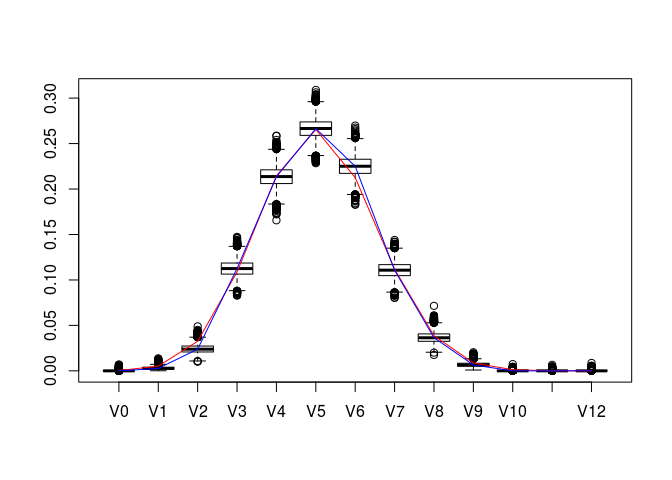
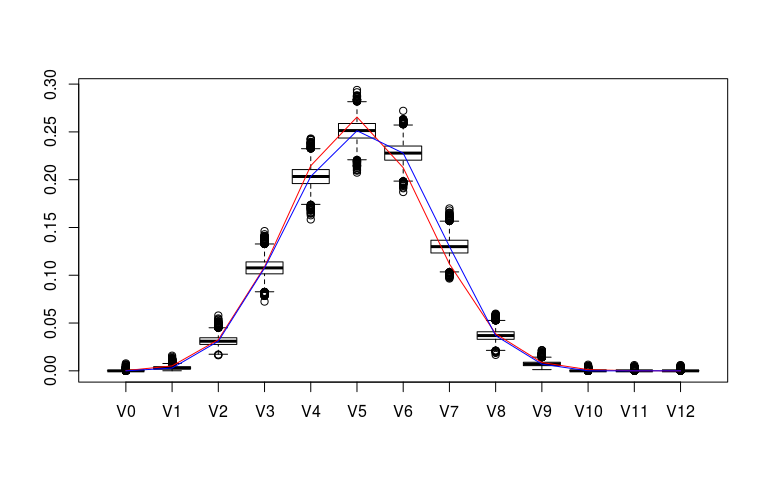
overhaul readme

diff --git a/README.md b/README.md
@@ -1,7 +1,8 @@
-conivol: An R package for the (bivariate) chi-bar-squared distribution and conic intrinsic volumes
-================
 
 <!-- README.md is generated from README.Rmd. Please edit that file -->
+conivol:<img src="logo.png" width="125" height="125" align="right"/> An R package for the (bivariate) chi-bar-squared distribution and conic intrinsic volumes
+==============================================================================================================================================================
+
 This R package provides functions for the chi-bar-squared distribution, the bivariate chi-bar-squared distribution, and the conic intrinsic volumes. It supports standard functions for the density/cdf/sampling of the (bivariate) chi-bar-squared distribution, calculations and known formulas for special classes of intrinsic volumes of cones, sampling functions for ellipsoidal cones and general polyhedral cones, as well as functions for estimating intrinsic volumes either from direct samples of the intrinsic volumes distribution (in the case of polyhedral cones) or from samples of the corresponding bivariate chi-bar-squared distribution. The package supports point estimates as well as Bayesian estimates via JAGS and Stan.
 
 Installation
@@ -66,20 +67,20 @@ pbichibarsq(xmat, v)
 
 # draw samples
 rchibarsq(10,v)
-#>  [1]  2.3918587  4.4510861  0.5022484  4.2238186  5.3131739  3.4599904
-#>  [7]  0.4576610  5.3195739  5.5375431 11.1122597
+#>  [1] 11.7136793  1.8455705  0.3968663  4.2529728 11.9379648  1.6168339
+#>  [7] 12.4645588  4.1396592 12.1570490  1.3374971
 rbichibarsq(10,v)
-#>             [,1]      [,2]
-#>  [1,] 0.00000000 9.3417217
-#>  [2,] 2.04589254 4.3345748
-#>  [3,] 1.54257645 2.4243350
-#>  [4,] 1.35398169 3.0641805
-#>  [5,] 2.08949334 3.1952437
-#>  [6,] 4.75112732 0.0000000
-#>  [7,] 3.42870404 0.5461283
-#>  [8,] 0.01269076 5.3659323
-#>  [9,] 0.00000000 3.4696579
-#> [10,] 7.70284494 0.3216500
+#>            [,1]         [,2]
+#>  [1,]  9.158176 0.6671769752
+#>  [2,]  4.653150 0.3943444343
+#>  [3,]  3.511411 0.2112598458
+#>  [4,]  0.325022 9.4584050842
+#>  [5,]  3.512931 0.5548743991
+#>  [6,]  5.933315 0.0000000000
+#>  [7,]  0.000000 1.2225380465
+#>  [8,]  1.065171 3.0144153644
+#>  [9,] 10.853338 2.4789997414
+#> [10,]  6.457394 0.0005752294
 ```
 
 ### Special classes of cones:
@@ -108,25 +109,25 @@ prod_ivols( list(circ_ivols(4,pi/4), circ_ivols(4,pi/4)) )
 # computing the semiaxes of the ellipsoidal cone given by the linear image of the Lorentz cone
 A <- matrix(sample(1:25),5,5)
 ellips_semiax(A)
-#> [1] 34.174818 17.712437  5.335419  2.650066
+#> [1] 8.39031851 3.13814421 1.96798247 0.05006629
 
 # draw samples of the bivariate chi-bar-squared distribution of the ellipsoidal cone
 ellips_rbichibarsq(10, A)
 #> $semiax
-#> [1] 34.174818 17.712437  5.335419  2.650066
+#> [1] 8.39031851 3.13814421 1.96798247 0.05006629
 #> 
 #> $samples
-#>             [,1]          [,2]
-#>  [1,]  1.8262861 -9.595045e-10
-#>  [2,]  0.3908564  4.723528e-01
-#>  [3,]  3.8903877  2.808700e-01
-#>  [4,]  6.8292999  3.646662e+00
-#>  [5,]  5.6744854 -2.045159e-08
-#>  [6,] 14.8446079 -2.023270e-11
-#>  [7,]  2.2339645 -1.643021e-08
-#>  [8,]  8.0010701  6.675965e-01
-#>  [9,]  4.2873706  4.162934e-01
-#> [10,]  5.1085968 -1.262772e-08
+#>               [,1]        [,2]
+#>  [1,] 0.2660257383 2.435511490
+#>  [2,] 1.4165146338 0.987217591
+#>  [3,] 0.0001986938 6.127696113
+#>  [4,] 2.8067142466 0.006943965
+#>  [5,] 0.9298638137 0.863948449
+#>  [6,] 0.5425539061 2.533520675
+#>  [7,] 5.0078025450 1.865901620
+#>  [8,] 2.8754255165 0.013595918
+#>  [9,] 2.3327089870 3.072222151
+#> [10,] 2.3602207583 0.659725270
 
 # compute the matrix of the product of some Weyl chambers
 weyl_matrix( rep(3,4), c("BC","BCp","D","Dp"), product=TRUE)
@@ -215,16 +216,16 @@ polyh_reduce_ineq(A)
 # (setting reduce to FALSE since otherwise polyh_reduce_*** would be called)
 polyh_rivols_gen(10, A, reduce=FALSE)
 #> $samples
-#>  [1] 0 0 1 0 1 0 0 2 1 0
+#>  [1] 0 1 0 1 1 1 1 1 1 0
 #> 
 #> $multsamp
-#> [1] 6 3 1 0 0 0
+#> [1] 3 7 0 0 0 0
 polyh_rivols_ineq(10, A, reduce=FALSE)
 #> $samples
-#>  [1] 4 4 3 5 5 5 4 5 5 5
+#>  [1] 4 3 5 4 5 5 4 4 3 5
 #> 
 #> $multsamp
-#> [1] 0 0 0 1 3 6
+#> [1] 0 0 0 2 4 4
 
 # computing the Bayesian posterior with Dirichlet prior (analytically solvable)
 # we sample from a product of Weyl chambers to have the true values at hand
@@ -239,11 +240,11 @@ bayes_est <- polyh_bayes( out$multsamp, out$dimC, out$linC )
 # compare posterior median with true values
 v_est_med <- bayes_est$post_marg_quant(0:12,0.5)
 v_est_med / v_true
-#>  [1] 0.015429495 0.523062457 0.733636995 1.035679305 0.994780829
-#>  [6] 1.003383516 1.058643362 0.989737734 0.941499288 0.751049575
-#> [11] 0.004248011 0.101089266 1.620096938
+#>  [1] 0.014347632 0.561701529 0.951341821 0.989484391 0.947710174
+#>  [6] 0.946117581 1.071471519 1.163783356 0.950920886 0.806530482
+#> [11] 0.003950155 0.108555516 1.506501407
 sum( (v_est_med-v_true)^2 )
-#> [1] 0.0002665534
+#> [1] 0.0009137502
 
 # display boxplot of posterior distribution, overlayed with true values
 data <- as.data.frame( bayes_est$post_samp(1e4) )
@@ -253,7 +254,7 @@ lines(1+0:12, v_true, col="red")
 lines(1+0:12, v_est_med, col="blue")
 ```
 
-![](README_figures/ex-polyh-1.png)
+<img src="README_figures/ex-polyh-1.png" style="display: block; margin: auto;" />
 
 ``` r
 # the Bayesian approach using a model that induces log-concavity works with
@@ -271,30 +272,28 @@ When the cone is nonpolyhedral or when sampling from the intrinsic volumes distr
 -   `estim_em`: produces EM-type iterates that may or may not converge to the maximum likelihood estimate for the weights of the bivariate chi-bar-squared distribution from sample data
 -   `estim_jags`, `estim_stan`: generate inputs for JAGS / Stan (data list and model string or external file) for sampling from the posterior distribution of the intrinsic volumes, given samples of the bivariate chi-bar-squared distribution
 
-**Usage:**
+**Usage:** We use a sample from the bivariate chi-bar-squared distribution of a product of circular cones, for which we have exact formulas for its intrinsic volumes:
 
 ``` r
-# sample from the bivariate chi-bar-squared distribution of a product of circular cones
 v_true <- circ_ivols( c(5,8), c(0.7*pi/2, 0.8*pi/2), product=TRUE)
 m_samp <- rbichibarsq(1e5, v_true)
 d <- 13
-
 # scatter plot of the sample
 ggplot(as_tibble(m_samp), aes(V1,V2)) + geom_point(alpha=.02) +
     theme_bw() +
     theme(axis.title.x=element_blank(),axis.title.y=element_blank())
 ```
 
-![](README_figures/ex-reconstr-1.png)
+<img src="README_figures/ex-reconstr-1.png" style="display: block; margin: auto;" />
 
 ``` r
 # estimate the moments of the intrinsic volumes, compare with true values
 est <- estim_statdim_var(d, m_samp); est
 #> $delta
-#> [1] 9.987078
+#> [1] 10.00048
 #> 
 #> $var
-#> [1] 2.633351
+#> [1] 2.485597
 list( statdim_true=sum((0:d)*v_true),
       var_true=sum((0:d)^2*v_true)-sum((0:d)*v_true)^2 )
 #> $statdim_true
@@ -314,14 +313,13 @@ v_init <- tibble( v_est_0 = init_ivols(13,0),
 # compute log-likelihoods of initial estimates
 lapply( v_init, loglike_ivols, data, 0)
 #> $v_est_0
-#> [1] -5.476975
+#> [1] -5.475552
 #> 
 #> $v_est_1
-#> [1] -4.971652
+#> [1] -4.966583
 #> 
 #> $v_est_4
-#> [1] -4.977581
-
+#> [1] -4.974373
 # plot the different estimates and their logarithms
 tib_plot <- v_init %>% add_column(v_true=v_true,.before=1) %>%
     add_column(k=0:d,.before=1) %>% gather(mode,value,2:5)
@@ -329,17 +327,18 @@ ggplot(tib_plot, aes(x=k, y=value, color=mode)) +
     geom_line() + theme_bw()
 ```
 
-![](README_figures/ex-reconstr-2.png)
+<img src="README_figures/ex-reconstr-2.png" style="display: block; margin: auto;" />
 
 ``` r
 ggplot(tib_plot, aes(x=k, y=log(value), color=mode)) +
     geom_line() + theme_bw()
 ```
 
-![](README_figures/ex-reconstr-3.png)
+<img src="README_figures/ex-reconstr-3.png" style="display: block; margin: auto;" />
+
+We compute some iterates of the EM algorithm for different initial estimates:
 
 ``` r
-# computing some iterates of the EM algorithm
 em0 <- estim_em( d, m_samp, N=200, init_mode=0, data=data)
 em1 <- estim_em( d, m_samp, N=200, init_mode=1, data=data)
 em4 <- estim_em( d, m_samp, N=200, init_mode=4, data=data)
@@ -352,39 +351,55 @@ ggplot(tib_plot0,aes(x=k,y=value,color=step)) +
     geom_line() + theme_bw() +
     geom_line(data=tib_true,aes(x=k,y=v_true),colour="black",linetype="dashed") +
     theme(legend.position="none", axis.title.x=element_blank(), axis.title.y=element_blank())
-```
-
-![](README_figures/ex-reconstr-4.png)
-
-``` r
 # [...]
 ```
 
-![](README_figures/plot-em-iterates-1.png)![](README_figures/plot-em-iterates-2.png)![](README_figures/plot-em-iterates-3.png)![](README_figures/plot-em-iterates-4.png)![](README_figures/plot-em-iterates-5.png)
+<!-- ```{r plot-em-iterates, echo=FALSE, fig.width=8, fig.height=5, fig.align="center"} -->
+<!-- ggplot(tib_plot0,aes(x=k,y=log(value),color=step)) + -->
+<!--     geom_line() + theme_bw() + -->
+<!--     geom_line(data=tib_true,aes(x=k,y=log(v_true)),colour="black",linetype="dashed") + -->
+<!--     theme(legend.position="none", axis.title.x=element_blank(), axis.title.y=element_blank()) -->
+<!-- tib_plot1 <- as_tibble( t(em0$iterates[1+20*(0:10), ]) ) %>% -->
+<!--     add_column(k=0:d,.before=1) %>% gather(step,value,2:12) -->
+<!-- ggplot(tib_plot1,aes(x=k,y=value,color=step)) + -->
+<!--     geom_line() + theme_bw() + -->
+<!--     geom_line(data=tib_true,aes(x=k,y=v_true),colour="black",linetype="dashed") + -->
+<!--     theme(legend.position="none", axis.title.x=element_blank(), axis.title.y=element_blank()) -->
+<!-- ggplot(tib_plot1,aes(x=k,y=log(value),color=step)) + -->
+<!--     geom_line() + theme_bw() + -->
+<!--     geom_line(data=tib_true,aes(x=k,y=log(v_true)),colour="black",linetype="dashed") + -->
+<!--     theme(legend.position="none", axis.title.x=element_blank(), axis.title.y=element_blank()) -->
+<!-- tib_plot4 <- as_tibble( t(em0$iterates[1+20*(0:10), ]) ) %>% -->
+<!--     add_column(k=0:d,.before=1) %>% gather(step,value,2:12) -->
+<!-- ggplot(tib_plot4,aes(x=k,y=value,color=step)) + -->
+<!--     geom_line() + theme_bw() + -->
+<!--     geom_line(data=tib_true,aes(x=k,y=v_true),colour="black",linetype="dashed") + -->
+<!--     theme(legend.position="none", axis.title.x=element_blank(), axis.title.y=element_blank()) -->
+<!-- ggplot(tib_plot4,aes(x=k,y=log(value),color=step)) + -->
+<!--     geom_line() + theme_bw() + -->
+<!--     geom_line(data=tib_true,aes(x=k,y=log(v_true)),colour="black",linetype="dashed") + -->
+<!--     theme(legend.position="none", axis.title.x=element_blank(), axis.title.y=element_blank()) -->
+<!-- ``` -->
+<img src="README_figures/save_ex-reconstr-comp-1.png" width="645" style="display: block; margin: auto;" /><img src="README_figures/save_plot-em-iterates-1.png" width="737" style="display: block; margin: auto;" /><img src="README_figures/save_plot-em-iterates-2.png" width="737" style="display: block; margin: auto;" /><img src="README_figures/save_plot-em-iterates-3.png" width="737" style="display: block; margin: auto;" /><img src="README_figures/save_plot-em-iterates-4.png" width="737" style="display: block; margin: auto;" /><img src="README_figures/save_plot-em-iterates-5.png" width="737" style="display: block; margin: auto;" />
 
 We can see that the estimate after 200 iterations is quite accurate for the larger values, but still comparably poor for the smaller values. If we increase the sample size to 10^6, we can see that the algorithm converges well.
 
-``` r
-# obtain large sample
-set.seed(1234)
-m_samp_large <- rbichibarsq(1e6, v_true)
-em <- estim_em( d, m_samp_large, N=200 )
+<img src="README_figures/save_em-large-sample-1.png" width="737" style="display: block; margin: auto;" /><img src="README_figures/save_em-large-sample-2.png" width="737" style="display: block; margin: auto;" />
 
-tib_plot <- as_tibble( t(em$iterates[1+20*(0:10), ]) ) %>%
-    add_column(k=0:d,.before=1) %>% gather(step,value,2:12)
-ggplot(tib_plot,aes(x=k,y=value,color=step)) +
-    geom_line() + theme_bw() +
-    geom_line(data=tib_true,aes(x=k,y=v_true),colour="black",linetype="dashed") +
-    theme(legend.position="none", axis.title.x=element_blank(), axis.title.y=element_blank())
-```
-
-![](README_figures/em-large-sample-1.png)
-
-``` r
-ggplot(tib_plot,aes(x=k,y=log(value),color=step)) +
-    geom_line() + theme_bw() +
-    geom_line(data=tib_true,aes(x=k,y=log(v_true)),colour="black",linetype="dashed") +
-    theme(legend.position="none", axis.title.x=element_blank(), axis.title.y=element_blank())
-```
-
-![](README_figures/em-large-sample-2.png)
+<!-- saved the output of the R code below (takes a few minutes) -->
+<!-- ```{r em-large-sample, fig.width=8, fig.height=5, fig.align="center"} -->
+<!-- # obtain large sample -->
+<!-- set.seed(1234) -->
+<!-- m_samp_large <- rbichibarsq(1e6, v_true) -->
+<!-- em <- estim_em( d, m_samp_large, N=200 ) -->
+<!-- tib_plot <- as_tibble( t(em$iterates[1+20*(0:10), ]) ) %>% -->
+<!--     add_column(k=0:d,.before=1) %>% gather(step,value,2:12) -->
+<!-- ggplot(tib_plot,aes(x=k,y=value,color=step)) + -->
+<!--     geom_line() + theme_bw() + -->
+<!--     geom_line(data=tib_true,aes(x=k,y=v_true),colour="black",linetype="dashed") + -->
+<!--     theme(legend.position="none", axis.title.x=element_blank(), axis.title.y=element_blank()) -->
+<!-- ggplot(tib_plot,aes(x=k,y=log(value),color=step)) + -->
+<!--     geom_line() + theme_bw() + -->
+<!--     geom_line(data=tib_true,aes(x=k,y=log(v_true)),colour="black",linetype="dashed") + -->
+<!--     theme(legend.position="none", axis.title.x=element_blank(), axis.title.y=element_blank()) -->
+<!-- ``` -->
